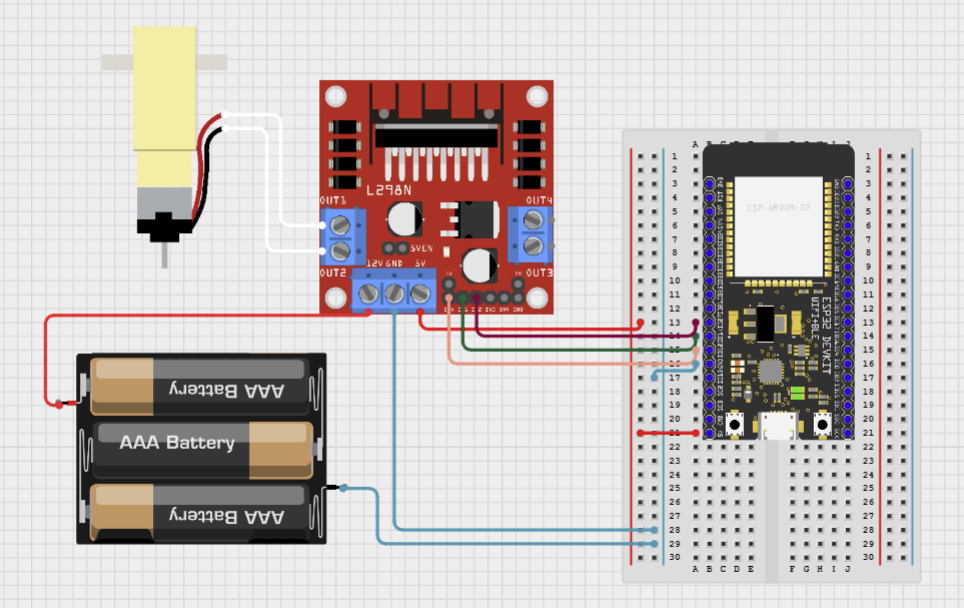
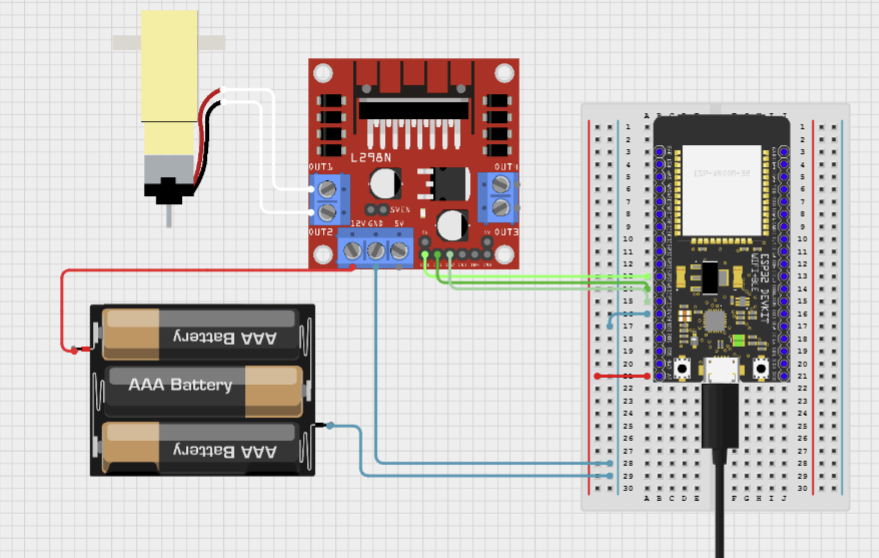
lol

diff --git a/docs/_sections/_guide-primaries/sensors-and-actuators/actuators.md b/docs/_sections/_guide-primaries/sensors-and-actuators/actuators.md
@@ -29,20 +29,27 @@ A motor controller, such as the L298N, acts as an intermediary between the micro
 The following information is an adapted version of [this guide.](https://lastminuteengineers.com/l298n-dc-stepper-driver-arduino-tutorial/)
 
 # How to Use Motor and Motor Controller?
+
+# Battery Pack Power
 First we will go over using an external power source for the ESP32. For this competition, you will be able to control your robot with a wireless game controller to navigate around the field (sensor challenges should be completed autonomously). It would be impractical to power your ESP32 through USB on the field, so you will use a battery pack. We need to reduce the voltage of the battery pack down to a level the ESP32 can safely use through the motor controller's 5V voltage regulator.
 
-Here is a diagram of how your circuit should look when using the battery pack (voltage regulator jumper needs to be in place to enable the motor controller's 5V output to the ESP32):
+Here is a diagram of how your circuit should look when using the battery pack:
 
 <img src="{{ '/_assets/images/external_ESP32_power.png' | prepend: site.baseurl }}" alt="external_ESP32_power.png">
-<img src="{{ '/_assets/images/motor_controller_jumper.png' | prepend: site.baseurl }}" alt="motor_controller_jumper.png" width=400 height=400>
+* Notice how the blue lines are shared between all components so that they have a common ground
 
-If you want to power your ESP32 and motors while using a USB connection, simply remove one battery from the battery pack (creates open circuit) and take out the voltage regulator jumper on the motor controller (will make 5V terminal receive input). You should now be able use your USB connection safely!
+However, if you want to be able to use your motors and plug your ESP32 into your laptop to use the serial monitor for debugging, then you'll have to change the wiring (or else you will fry your equipment!):
+
+<img src="{{ '/_assets/images/motor_controller_with_usb.png' | prepend: site.baseurl }}" alt="motor_controller_with_usb.png">
+* Note how the line from the motor controller's 5V line is now gone! 
+
+You should now be able use your USB connection safely!
 
 {: .highlight}
 Do NOT power your ESP32 through its 5V pin with the battery pack while simultaneously connecting it to your computer through USB! This may irreversibly damage your devices (only do one at a time).
 {: .callout-toby}
 
-To control a DC motor using the ESP32, a motor controller, and AA battery pack, you can connect them together as shown below:
+To control a DC motor using the ESP32, a motor controller, and battery pack (**WITH USB CONNECTION**), you can connect them together as shown below:
 
 <img src="{{ '/_assets/images/motor_with_external_power.png' | prepend: site.baseurl }}" alt="motor_with_external_power.png">
 
